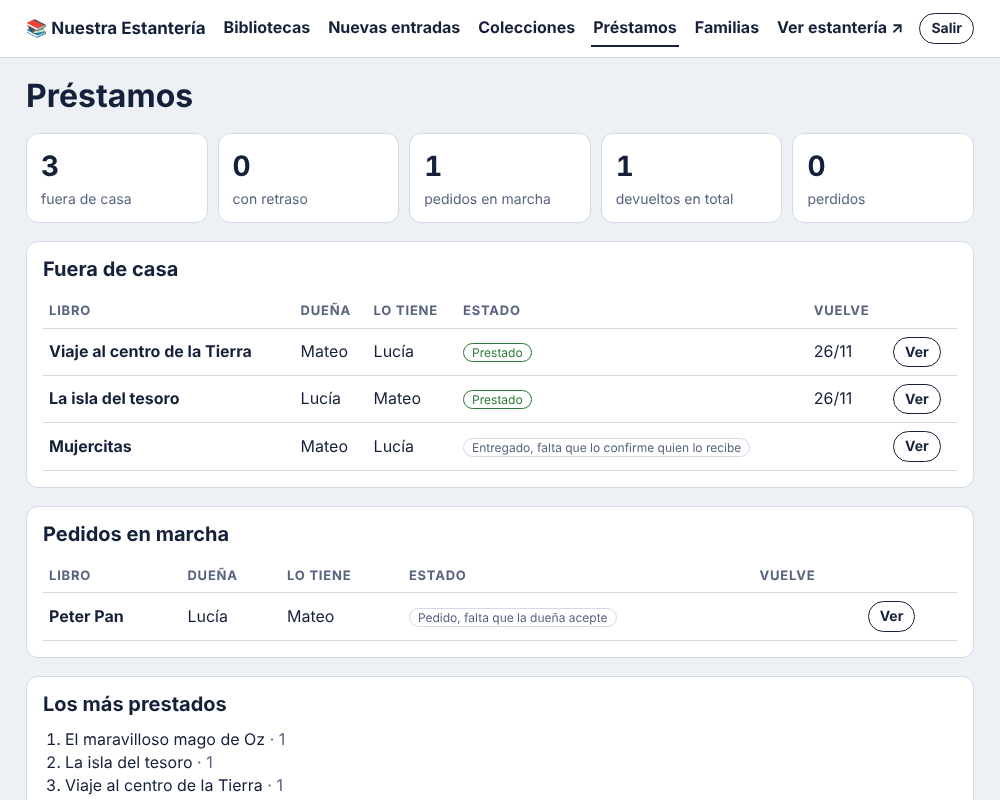
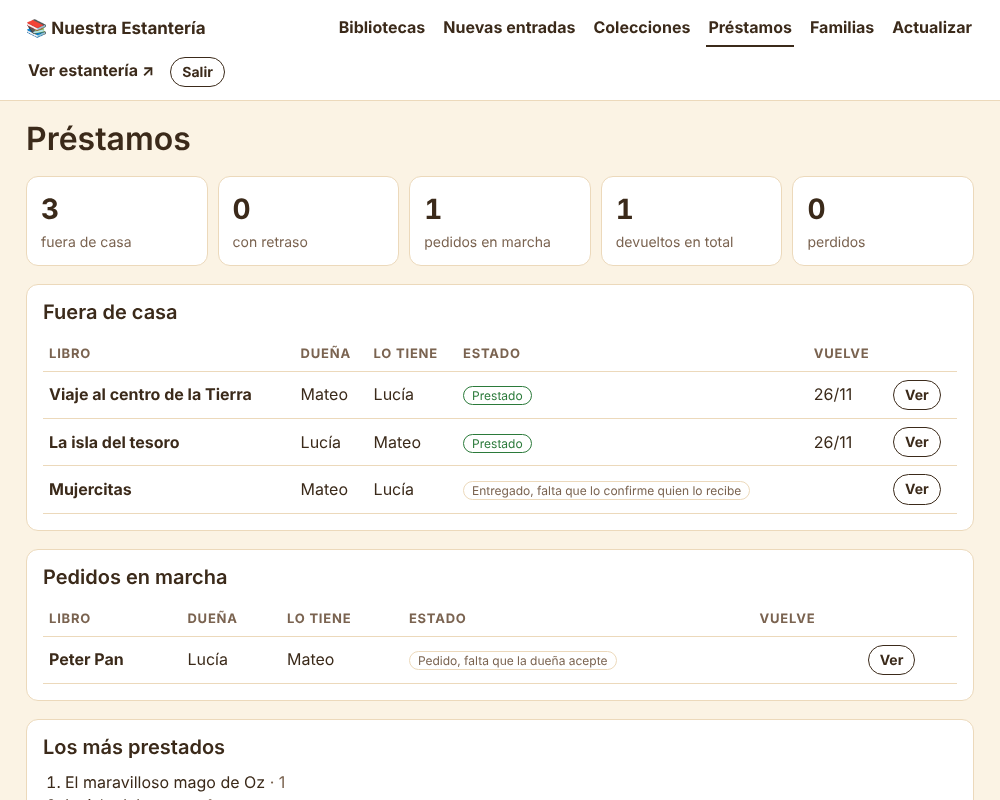
1.2.0: aspecto más alegre para niños
Estantería de madera con tarjetas de color por biblioteca, búho lector,
tipografía Fredoka y paleta cálida (también en modo oscuro y en /cuenta y /admin).
Capturas del README actualizadas.

Claude-Session: https://claude.ai/code/session_01DogAUJ72wyyiFxb7nKWFgK

diff --git a/public/index.html b/public/index.html
@@ -6,50 +6,66 @@
 <title>Nuestra Estantería</title>
 <link rel="preconnect" href="https://fonts.googleapis.com">
 <link rel="preconnect" href="https://fonts.gstatic.com" crossorigin>
-<link rel="stylesheet" href="https://fonts.googleapis.com/css2?family=Atkinson+Hyperlegible:wght@400;700&family=Bricolage+Grotesque:opsz,wght@12..96,600;12..96,800&display=swap">
+<link rel="stylesheet" href="https://fonts.googleapis.com/css2?family=Atkinson+Hyperlegible:wght@400;700&family=Fredoka:wght@500;600;700&display=swap">
 <style>
 /* Escaparate: datos en libros.json y portadas como imágenes sueltas en /portadas, que el móvil solo descarga al acercarse a ellas. */
 :root{
-  --bg:#edf0f5; --surface:#ffffff; --ink:#15213a; --muted:#566381; --line:#d3dae6; --focus:#ffd43b;
-  --btn:#15213a; --btn-ink:#ffffff;
+  /* Estantería de madera: papel cálido, tarjetas blancas y tablas de madera bajo cada colección */
+  --bg:#fbf3e4; --dot:#f0dfc1; --surface:#fffaf2; --card:#ffffff; --ink:#3b2a1a; --muted:#7a6350; --line:#ecd9bb; --focus:#ffd43b;
+  --btn:#3b2a1a; --btn-ink:#ffffff; --accent:#d9480f; --accent-ink:#ffffff;
+  --hero:#fff3d6; --hero-line:#f1d49b; --wood1:#d39a62; --wood2:#a8703f; --wood3:#8a5a31; --wood-shadow:rgba(80,45,10,.45); --shelf-label:#9c6434;
+  --t0:#ff8fab; --t1:#74c0fc; --t2:#8ce99a; --t3:#ffc078; --t4:#b197fc;
   --s0:#c2255c; --s1:#c9470f; --s2:#8f6500; --s3:#2b7a3a; --s4:#0b7285; --s5:#1864ab; --s6:#5f3dc4; --s7:#862e9c; --s8:#48525e;
-  --display:"Bricolage Grotesque","Trebuchet MS",system-ui,sans-serif;
+  --display:"Fredoka","Trebuchet MS",system-ui,sans-serif;
   --body:"Atkinson Hyperlegible",Verdana,system-ui,sans-serif;
   color-scheme:light;
 }
 @media (prefers-color-scheme: dark){ :root:not([data-theme="light"]){
-  --bg:#0f1628; --surface:#1a2440; --ink:#eaeef7; --muted:#9daac4; --line:#2e3b5c; --btn:#eaeef7; --btn-ink:#0f1628; color-scheme:dark } }
+  --bg:#1d150f; --dot:#2a2018; --surface:#2a2018; --card:#2a2018; --ink:#f6ead8; --muted:#c9b39a; --line:#4a3a2c; --btn:#f6ead8; --btn-ink:#1d150f;
+  --accent:#ff8a3d; --accent-ink:#1d150f; --hero:#33261b; --hero-line:#5a4330; --wood1:#9c6a3e; --wood2:#7a4f2b; --wood3:#5e3c20; --wood-shadow:rgba(0,0,0,.6); --shelf-label:#e0ac74; color-scheme:dark } }
 :root[data-theme="dark"]{
-  --bg:#0f1628; --surface:#1a2440; --ink:#eaeef7; --muted:#9daac4; --line:#2e3b5c; --btn:#eaeef7; --btn-ink:#0f1628; color-scheme:dark }
+  --bg:#1d150f; --dot:#2a2018; --surface:#2a2018; --card:#2a2018; --ink:#f6ead8; --muted:#c9b39a; --line:#4a3a2c; --btn:#f6ead8; --btn-ink:#1d150f;
+  --accent:#ff8a3d; --accent-ink:#1d150f; --hero:#33261b; --hero-line:#5a4330; --wood1:#9c6a3e; --wood2:#7a4f2b; --wood3:#5e3c20; --wood-shadow:rgba(0,0,0,.6); --shelf-label:#e0ac74; color-scheme:dark }
 *{box-sizing:border-box}
 html{padding-top:env(safe-area-inset-top,0px);padding-bottom:env(safe-area-inset-bottom,0px)}
-body{margin:0;background:var(--bg);color:var(--ink);font:16px/1.45 var(--body)}
+body{margin:0;background:var(--bg) radial-gradient(var(--dot) 1.2px,transparent 1.6px) 0 0/22px 22px;color:var(--ink);font:16px/1.45 var(--body)}
 img{max-width:100%}
 [hidden]{display:none!important}
 #app{max-width:860px;margin:0 auto;padding-inline:16px;padding-block:24px 64px;display:flex;flex-direction:column;gap:20px}
 h1,h2,h3{font-family:var(--display);margin:0;text-wrap:balance;line-height:1.1}
-h1{font-size:clamp(30px,6vw,44px);font-weight:800;letter-spacing:-.02em}
-h2{font-size:24px;font-weight:800}
+h1{font-size:clamp(32px,8vw,48px);font-weight:700}
+h2{font-size:24px;font-weight:700}
 h3{font-size:13px;font-family:var(--body);font-weight:700;text-transform:uppercase;letter-spacing:.08em;color:var(--muted)}
 p{margin:0}
 .lead{color:var(--muted);max-width:60ch}
 .head{display:flex;flex-direction:column;gap:8px}
 .counts{display:flex;flex-wrap:wrap;gap:6px 18px;font-variant-numeric:tabular-nums;color:var(--muted)}
-.counts b{color:var(--ink);font-family:var(--display);font-size:20px;margin-right:4px}
+.counts b{color:var(--ink);font-family:var(--display);font-size:22px;font-weight:700;margin-right:4px}
 button,input,select{font:inherit;color:inherit}
 button{cursor:pointer}
 :focus-visible{outline:3px solid var(--focus);outline-offset:2px}
 .tools{display:flex;flex-wrap:wrap;gap:10px;align-items:center}
-.field{border:1.5px solid var(--line);background:var(--surface);border-radius:10px;padding:8px 11px;min-width:0;flex:1 1 220px}
+.field{border:1.5px solid var(--line);background:var(--surface);border-radius:999px;padding:8px 11px;min-width:0;flex:1 1 220px}
 .chips{display:flex;flex-wrap:wrap;gap:6px}
-.chip{border:1.5px solid var(--line);background:var(--surface);border-radius:999px;padding:5px 12px;font-size:14px;font-weight:700}
+.chip{border:1.5px solid var(--line);background:var(--surface);border-radius:999px;padding:6px 14px;font-size:15px;font-weight:700}
 .chip small{font-weight:400;opacity:.75;margin-left:4px;font-variant-numeric:tabular-nums}
 .chip[aria-pressed="true"]{background:var(--btn);color:var(--btn-ink);border-color:var(--btn)}
 #list{display:flex;flex-direction:column;gap:28px}
-.lib{display:flex;flex-direction:column;gap:14px;content-visibility:auto;contain-intrinsic-size:auto 900px}
-.libhead{display:flex;flex-wrap:wrap;align-items:baseline;gap:6px 12px}
-.libhead span{color:var(--muted);font-variant-numeric:tabular-nums}
-.stack{display:flex;flex-direction:column;gap:6px}
+.lib{display:flex;flex-direction:column;gap:18px;content-visibility:auto;contain-intrinsic-size:auto 900px;
+  background:var(--card);border-radius:24px;border-top:8px solid var(--tc,var(--t0));padding:16px 16px 22px;box-shadow:0 10px 26px -20px rgba(60,35,10,.6)}
+.lib.t0{--tc:var(--t0)}.lib.t1{--tc:var(--t1)}.lib.t2{--tc:var(--t2)}.lib.t3{--tc:var(--t3)}.lib.t4{--tc:var(--t4)}
+.libhead{display:flex;flex-wrap:wrap;align-items:center;gap:6px 12px}
+.libhead h2{display:flex;align-items:center;gap:10px;font-weight:700;font-size:clamp(22px,5.5vw,28px)}
+.ava{flex:none;width:42px;height:42px;border-radius:50%;display:inline-grid;place-items:center;background:var(--tc);color:#3b2a1a;font-size:21px;font-weight:700}
+.libhead>span{color:var(--muted);font-variant-numeric:tabular-nums}
+.stack{display:flex;flex-direction:column;gap:8px;position:relative;padding-bottom:24px}
+.stack::after{content:"";position:absolute;left:-6px;right:-6px;bottom:0;height:14px;border-radius:3px;
+  background:linear-gradient(var(--wood1),var(--wood2) 60%,var(--wood3));box-shadow:0 6px 10px -4px var(--wood-shadow)}
+.stack h3{color:var(--shelf-label)}
+.hero{position:relative;overflow:hidden;display:flex;align-items:center;justify-content:space-between;gap:14px;background:var(--hero);border:2px solid var(--hero-line);border-radius:24px;padding:18px 18px 28px 20px}
+.hero::after{content:"";position:absolute;left:0;right:0;bottom:0;height:12px;background:linear-gradient(var(--wood1),var(--wood2))}
+.hero>div{display:flex;flex-direction:column;gap:8px;min-width:0}
+.hero svg{flex:none;width:clamp(78px,22vw,118px);height:auto}
 .c0{--sc:var(--s0)}.c1{--sc:var(--s1)}.c2{--sc:var(--s2)}.c3{--sc:var(--s3)}.c4{--sc:var(--s4)}.c5{--sc:var(--s5)}.c6{--sc:var(--s6)}.c7{--sc:var(--s7)}.c8{--sc:var(--s8)}
 .spines{list-style:none;margin:0;padding:0;display:flex;flex-direction:column;gap:3px}
 .spine{width:var(--w,100%);background:var(--sc);color:#fff;border-radius:4px 7px 7px 4px;padding:8px 12px 8px 14px;display:flex;flex-wrap:wrap;gap:2px 10px;align-items:baseline;box-shadow:inset 5px 0 0 rgba(0,0,0,.22),inset 0 -2px 0 rgba(0,0,0,.14)}
@@ -60,7 +76,8 @@ button{cursor:pointer}
 .cover{min-width:0}
 .cover>button{all:unset;cursor:pointer;display:flex;flex-direction:column;gap:7px;width:100%}
 .cover>button:focus-visible{outline:3px solid var(--focus);outline-offset:3px;border-radius:6px}
-.art{position:relative;aspect-ratio:2/3;border-radius:3px 6px 6px 3px;overflow:hidden;background:var(--sc);box-shadow:0 2px 0 rgba(0,0,0,.18),0 6px 14px -6px rgba(0,0,0,.45);display:block}
+.cover>button:hover .art{transform:translateY(-4px) rotate(-1deg)}
+.art{transition:transform .15s;position:relative;aspect-ratio:2/3;border-radius:4px 10px 10px 4px;overflow:hidden;background:var(--sc);box-shadow:0 2px 0 rgba(0,0,0,.18),0 6px 14px -6px rgba(0,0,0,.45);display:block}
 .art img{width:100%;height:100%;object-fit:cover;display:block}
 .art::after{content:"";position:absolute;inset:0 auto 0 0;width:6px;background:linear-gradient(90deg,rgba(0,0,0,.28),rgba(0,0,0,0))}
 .ph{position:absolute;inset:0;padding:12px 9px 9px 14px;color:#fff;font-family:var(--display);font-weight:800;font-size:14px;line-height:1.15;overflow:hidden;overflow-wrap:anywhere}
@@ -100,14 +117,14 @@ button{cursor:pointer}
 .who a{color:inherit;font-weight:700}
 .who .btnl{border:1.5px solid var(--btn);border-radius:999px;padding:5px 14px;text-decoration:none;background:var(--surface)}
 .who .badge{background:#c2255c;color:#fff;border-radius:999px;padding:1px 8px;font-size:13px;margin-left:4px;text-decoration:none}
-.ribbon{position:absolute;left:6px;right:6px;bottom:6px;background:rgba(21,33,58,.9);color:#fff;font-size:11px;font-weight:700;border-radius:4px;padding:3px 6px;text-align:center;line-height:1.2}
+.ribbon{position:absolute;left:6px;right:6px;bottom:6px;background:var(--accent);color:var(--accent-ink);font-size:11px;font-weight:700;border-radius:999px;padding:3px 6px;text-align:center;line-height:1.2}
 .spine .st{font-size:12px;font-weight:700;background:rgba(0,0,0,.28);border-radius:4px;padding:1px 6px;margin-left:auto}
 .loan{display:flex;flex-wrap:wrap;gap:8px 12px;align-items:center;margin-top:4px}
 .loan .stt{font-size:14px;font-weight:700}
 .loan .stt.out{color:var(--s1)}
 .loan .stt.ok{color:var(--s3)}
-.lbtn{border:1.5px solid var(--btn);background:var(--btn);color:var(--btn-ink);border-radius:999px;padding:7px 16px;font-weight:700;font-size:15px;text-decoration:none;display:inline-block}
-.lbtn.sec{background:var(--surface);color:var(--ink)}
+.lbtn{border:1.5px solid var(--accent);background:var(--accent);color:var(--accent-ink);border-radius:999px;padding:10px 20px;font-weight:700;font-size:17px;text-decoration:none;display:inline-block}
+.lbtn.sec{background:var(--surface);color:var(--ink);border-color:var(--btn);font-size:15px;padding:8px 16px}
 .lbtn[disabled]{opacity:.55;cursor:wait}
 .lmsg{font-size:14px;color:var(--muted);flex-basis:100%}
 .lmsg.err{color:#c92a2a}
@@ -118,9 +135,24 @@ button{cursor:pointer}
 <div id="app">
   <header class="head">
     <div class="who" id="who"></div>
-    <h1>Nuestra Estantería</h1>
-    <p class="lead">Los libros que tenemos entre todos. Mira qué hay en cada biblioteca y descubre tu próxima lectura.</p>
-    <p class="counts" id="counts"></p>
+    <div class="hero">
+      <div>
+        <h1>Nuestra Estantería</h1>
+        <p class="lead">¿Qué leemos hoy? Mira los libros de todas las casas y elige tu próxima aventura.</p>
+        <p class="counts" id="counts"></p>
+      </div>
+      <svg viewBox="0 0 120 120" width="110" height="110" aria-hidden="true">
+        <ellipse cx="60" cy="112" rx="40" ry="6" fill="rgba(0,0,0,.12)"/>
+        <path d="M24 46 Q22 18 40 26 L60 34 L80 26 Q98 18 96 46 Q102 96 60 104 Q18 96 24 46Z" fill="#8a5a3b"/>
+        <path d="M36 64 Q60 52 84 64 Q86 96 60 98 Q34 96 36 64Z" fill="#f2d3a7"/>
+        <circle cx="44" cy="50" r="15" fill="#fff"/><circle cx="76" cy="50" r="15" fill="#fff"/>
+        <circle class="ojo" cx="46" cy="52" r="7" fill="#2b1d12"/><circle class="ojo" cx="74" cy="52" r="7" fill="#2b1d12"/>
+        <circle cx="48" cy="49" r="2.4" fill="#fff"/><circle cx="76" cy="49" r="2.4" fill="#fff"/>
+        <path d="M56 60 L64 60 L60 68Z" fill="#f59f00"/>
+        <path d="M30 80 L60 74 L90 80 L90 100 L60 94 L30 100Z" fill="#e8590c"/><path d="M60 74 L60 94" stroke="#fff" stroke-width="2"/>
+        <path d="M34 84 L56 80 M34 89 L56 85 M64 80 L86 84 M64 85 L86 89" stroke="#ffd8a8" stroke-width="2" stroke-linecap="round"/>
+      </svg>
+    </div>
   </header>
   <div class="tools">
     <input class="field" id="q" type="search" placeholder="Buscar título, autor o colección" aria-label="Buscar">
@@ -277,13 +309,13 @@ function renderList(){
   var list = filtered(), out = "";
   if (!D.libros.length) { $("list").innerHTML = '<p class="empty">Todavía no hay libros en la estantería.</p>'; return; }
   if (!list.length) { $("list").innerHTML = '<p class="empty">Ningún libro coincide con la búsqueda.</p>'; return; }
-  D.bibliotecas.forEach(function(lib){
+  D.bibliotecas.forEach(function(lib, li){
     var mine = list.filter(function(b){ return b.biblioteca === lib.id; });
     if (!mine.length) return;
     var groups = {}, order = [];
     mine.forEach(function(b){ var k = b.coleccion || "~"; if (!groups[k]) { groups[k] = []; order.push(k); } groups[k].push(b); });
     order.sort(function(a, b){ return a === "~" ? 1 : b === "~" ? -1 : a.localeCompare(b, "es"); });
-    out += '<section class="lib"><div class="libhead"><h2>' + esc(lib.nombre) + '</h2><span>' + mine.length + (mine.length === 1 ? " libro" : " libros") + '</span></div>';
+    out += '<section class="lib t' + (li % 5) + '"><div class="libhead"><h2><span class="ava" aria-hidden="true">' + esc((lib.nombre.trim()[0] || "?").toUpperCase()) + '</span><span>La estantería de ' + esc(lib.nombre) + '</span></h2><span>' + mine.length + (mine.length === 1 ? " libro" : " libros") + '</span></div>';
     order.forEach(function(k){
       var g = groups[k].slice().sort(function(a, b){
         var na = parseInt(a.numero, 10), nb = parseInt(b.numero, 10);

diff --git a/app/templates/base.html b/app/templates/base.html
@@ -4,24 +4,25 @@
 <meta charset="utf-8">
 <meta name="viewport" content="width=device-width,initial-scale=1">
 <meta name="robots" content="noindex,nofollow">
+<link rel="stylesheet" href="https://fonts.googleapis.com/css2?family=Atkinson+Hyperlegible:wght@400;700&family=Fredoka:wght@500;600;700&display=swap">
 <title>{% block titulo %}Administración{% endblock %} · Nuestra Estantería</title>
 <style>
 :root{
-  --bg:#edf0f5; --surface:#fff; --ink:#15213a; --muted:#566381; --line:#d3dae6; --focus:#ffd43b;
-  --btn:#15213a; --btn-ink:#fff; --ok:#2b7a3a; --warn:#a14d00; --danger:#b42318; --soft:#f5f7fa;
+  --bg:#fbf3e4; --surface:#fff; --ink:#3b2a1a; --muted:#7a6350; --line:#ecd9bb; --focus:#ffd43b;
+  --btn:#3b2a1a; --btn-ink:#fff; --ok:#2b7a3a; --warn:#a14d00; --danger:#b42318; --soft:#fdf7ec;
   --body:"Atkinson Hyperlegible",system-ui,-apple-system,"Segoe UI",Roboto,sans-serif;
   color-scheme:light;
 }
 @media (prefers-color-scheme: dark){ :root:not([data-theme="light"]){
-  --bg:#0f1628; --surface:#1a2440; --ink:#eaeef7; --muted:#9daac4; --line:#2e3b5c; --btn:#eaeef7; --btn-ink:#0f1628;
-  --ok:#69c27a; --warn:#f0a35a; --danger:#ff8a80; --soft:#141d33; color-scheme:dark } }
+  --bg:#1d150f; --surface:#2a2018; --ink:#f6ead8; --muted:#c9b39a; --line:#4a3a2c; --btn:#f6ead8; --btn-ink:#1d150f;
+  --ok:#69c27a; --warn:#f0a35a; --danger:#ff8a80; --soft:#231a13; color-scheme:dark } }
 :root[data-theme="dark"]{
-  --bg:#0f1628; --surface:#1a2440; --ink:#eaeef7; --muted:#9daac4; --line:#2e3b5c; --btn:#eaeef7; --btn-ink:#0f1628;
-  --ok:#69c27a; --warn:#f0a35a; --danger:#ff8a80; --soft:#141d33; color-scheme:dark }
+  --bg:#1d150f; --surface:#2a2018; --ink:#f6ead8; --muted:#c9b39a; --line:#4a3a2c; --btn:#f6ead8; --btn-ink:#1d150f;
+  --ok:#69c27a; --warn:#f0a35a; --danger:#ff8a80; --soft:#231a13; color-scheme:dark }
 *{box-sizing:border-box}
 body{margin:0;background:var(--bg);color:var(--ink);font:16px/1.45 var(--body)}
 a{color:inherit}
-h1,h2,h3{margin:0;line-height:1.15;text-wrap:balance}
+h1,h2,h3{margin:0;line-height:1.15;text-wrap:balance;font-family:"Fredoka","Trebuchet MS",system-ui,sans-serif;font-weight:600}
 h1{font-size:clamp(24px,5vw,32px)} h2{font-size:20px} h3{font-size:16px}
 p{margin:0}
 .top{background:var(--surface);border-bottom:1.5px solid var(--line)}

diff --git a/CHANGELOG.md b/CHANGELOG.md
@@ -1,5 +1,11 @@
 # Novedades
 
+## 1.2.0 — 2026-11-05
+
+- Nuevo aspecto más alegre para los niños: colores cálidos de papel, un búho lector en la portada, cada biblioteca en su tarjeta de color («La estantería de…») y una tabla de madera bajo cada colección.
+- Letra redondeada (Fredoka) en los títulos y botón «¿Me lo prestas?» más grande.
+- «Mi cuenta» y la administración usan los mismos colores cálidos, también en modo oscuro.
+
 ## 1.1.0 — 2026-11-05
 
 - Importar una copia de seguridad desde el panel (el .zip de «Descargar copia» o la base de datos que llega por Telegram).
